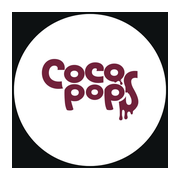
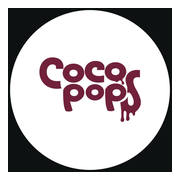
Corregir logotipo real y actualización móvil CICE 10.3

Changed region(s): [[0.0278, 0.0278, 0.9722, 0.9722], [0.1944, 0.3056, 0.8056, 0.6944]]

diff --git a/app/static/index.html b/app/static/index.html
@@ -140,37 +140,59 @@ svg.chart{width:100%;height:280px;min-width:720px}
 
 
 .brand-logo-img{
-  width:54px;height:54px;border-radius:16px;object-fit:cover;
-  border:2px solid rgba(255,255,255,.15);background:#fff
+  width:64px;
+  height:64px;
+  border-radius:18px;
+  object-fit:cover;
+  background:#fff;
+  border:2px solid rgba(255,255,255,.18);
+  box-shadow:0 8px 22px rgba(0,0,0,.22)
 }
 .mobile-refresh{
-  position:fixed;right:18px;bottom:18px;z-index:950;
-  width:56px;height:56px;border-radius:50%;
-  border:0;background:#861f41;color:#fff;
-  font-size:25px;font-weight:900;cursor:pointer;
-  box-shadow:0 12px 28px rgba(0,0,0,.24);
-  display:none
+  position:fixed;
+  right:18px;
+  bottom:18px;
+  z-index:999;
+  width:58px;
+  height:58px;
+  border-radius:50%;
+  border:0;
+  background:#861f41;
+  color:#fff;
+  font-size:27px;
+  font-weight:900;
+  cursor:pointer;
+  box-shadow:0 12px 30px rgba(0,0,0,.28)
 }
 .mobile-refresh:disabled{opacity:.65;cursor:wait}
-.mobile-refresh.spinning{animation:spin .8s linear infinite}
-@keyframes spin{to{transform:rotate(360deg)}}
-.mobile-tip{
-  display:none;background:#fff7ed;border:1px solid #fed7aa;color:#9a3412;
-  border-radius:14px;padding:12px 14px;margin-bottom:14px;font-size:13px
+.mobile-refresh.spinning{animation:ciceSpin .85s linear infinite}
+@keyframes ciceSpin{to{transform:rotate(360deg)}}
+.mobile-refresh-label{
+  position:fixed;
+  right:15px;
+  bottom:82px;
+  z-index:998;
+  background:#fff;
+  color:#861f41;
+  border:1px solid #ead1da;
+  border-radius:999px;
+  padding:6px 10px;
+  font-size:11px;
+  font-weight:900;
+  box-shadow:0 6px 18px rgba(0,0,0,.12);
+  display:none
 }
 @media(max-width:780px){
-  .mobile-refresh{display:block}
-  .mobile-tip{display:block}
-  .sidebar{max-height:none}
-  .top{align-items:flex-start}
-  h1{font-size:28px}
-  .main{padding-bottom:90px}
+  .brand-logo-img{width:58px;height:58px}
+  .mobile-refresh-label{display:block}
+  .main{padding-bottom:100px}
 }
 
 </style>
 
-<link rel="manifest" href="/static/manifest.webmanifest">
-<link rel="apple-touch-icon" href="/static/apple-touch-icon.png">
+<link rel="manifest" href="/static/manifest.webmanifest?v=10.3.0">
+<link rel="apple-touch-icon" href="/static/apple-touch-icon.png?v=10.3.0">
+<link rel="icon" type="image/png" sizes="192x192" href="/static/icon-192.png?v=10.3.0">
 <meta name="theme-color" content="#861f41">
 <meta name="apple-mobile-web-app-capable" content="yes">
 <meta name="apple-mobile-web-app-status-bar-style" content="default">
@@ -181,8 +203,11 @@ svg.chart{width:100%;height:280px;min-width:720px}
 <div class="shell">
   <aside class="sidebar">
     <div class="logo-wrap">
-      <img class="brand-logo-img" src="/static/cocopops-logo.jpg" alt="Coco Pops">
-      <div><div class="brand-title">CICE</div><div class="brand-sub">Solo consulta · Powered by Odoo</div></div>
+      <img class="brand-logo-img" src="/static/cocopops-logo.png?v=10.3.0" alt="Logotipo Coco Pops">
+      <div>
+        <div class="brand-title">CICE</div>
+        <div class="brand-sub">Solo consulta · Powered by Odoo</div>
+      </div>
     </div>
     <div class="nav-label">Centro de mando</div>
     <button class="nav-btn active" data-module="home">Resumen Ejecutivo</button>
@@ -217,9 +242,6 @@ svg.chart{width:100%;height:280px;min-width:720px}
     <div id="status" class="hidden"></div>
 
     <div id="dashboard" hidden>
-      <div class="mobile-tip">
-        Para traer los datos más recientes, toca el botón circular ↻ de la esquina inferior derecha.
-      </div>
       <section id="homeView">
         <div class="command-grid">
           <button class="command" data-open="inventory"><div class="icon">📦</div><div class="title">Inventarios</div><div class="desc">Existencias, mínimos y riesgos</div></button>
@@ -840,12 +862,17 @@ searchInput.addEventListener('input',renderProducts);statusFilter.addEventListen
 cardsBtn.onclick=()=>{productView='cards';productCards.classList.remove('hidden');tableContainer.classList.add('hidden');cardsBtn.classList.add('active');tableBtn.classList.remove('active');};
 tableBtn.onclick=()=>{productView='table';productCards.classList.add('hidden');tableContainer.classList.remove('hidden');tableBtn.classList.add('active');cardsBtn.classList.remove('active');};
 if ('serviceWorker' in navigator) {
-  window.addEventListener('load', () => {
-    navigator.serviceWorker.register('/static/service-worker.js').catch(() => {});
+  window.addEventListener('load', async () => {
+    try {
+      const registration = await navigator.serviceWorker.register('/static/service-worker.js?v=10.3.0');
+      registration.update();
+    } catch (_) {}
   });
 }
+mobileRefresh.onclick=loadData;
 loadData();setInterval(loadData,300000);
 </script>
-<button id="mobileRefresh" class="mobile-refresh" aria-label="Actualizar datos">↻</button>
+<div class="mobile-refresh-label">Actualizar datos</div>
+<button id="mobileRefresh" class="mobile-refresh" aria-label="Actualizar datos de Odoo" title="Actualizar datos">↻</button>
 </body>
 </html>

diff --git a/app/static/service-worker.js b/app/static/service-worker.js
@@ -1,17 +1,16 @@
 
-const CACHE_NAME = "cice-shell-v10-2";
-const SHELL = [
-  "/",
-  "/static/manifest.webmanifest",
-  "/static/icon-192.png",
-  "/static/icon-512.png",
-  "/static/apple-touch-icon.png",
-  "/static/cocopops-logo.jpg"
+const CACHE_NAME = "cice-v10-3-0";
+const STATIC_ASSETS = [
+  "/static/manifest.webmanifest?v=10.3.0",
+  "/static/icon-192.png?v=10.3.0",
+  "/static/icon-512.png?v=10.3.0",
+  "/static/apple-touch-icon.png?v=10.3.0",
+  "/static/cocopops-logo.png?v=10.3.0"
 ];
 
 self.addEventListener("install", event => {
   event.waitUntil(
-    caches.open(CACHE_NAME).then(cache => cache.addAll(SHELL))
+    caches.open(CACHE_NAME).then(cache => cache.addAll(STATIC_ASSETS))
   );
   self.skipWaiting();
 });
@@ -26,20 +25,37 @@ self.addEventListener("activate", event => {
 });
 
 self.addEventListener("fetch", event => {
-  const url = new URL(event.request.url);
+  const request = event.request;
+  const url = new URL(request.url);
 
-  // Las APIs siempre deben traer datos actuales.
+  if (request.method !== "GET") return;
+
+  // Never cache live Odoo-backed data.
   if (url.pathname.startsWith("/api/")) {
-    event.respondWith(fetch(event.request));
+    event.respondWith(fetch(request, {cache: "no-store"}));
     return;
   }
 
-  // La interfaz puede abrirse con rapidez usando caché.
+  // Always try the newest HTML first, so updates appear on phone and PC.
+  if (request.mode === "navigate" || url.pathname === "/") {
+    event.respondWith(
+      fetch(request, {cache: "no-store"})
+        .then(response => {
+          const copy = response.clone();
+          caches.open(CACHE_NAME).then(cache => cache.put("/", copy));
+          return response;
+        })
+        .catch(() => caches.match("/"))
+    );
+    return;
+  }
+
+  // Static files: cache first, then network.
   event.respondWith(
-    caches.match(event.request).then(cached =>
-      cached || fetch(event.request).then(response => {
+    caches.match(request).then(cached =>
+      cached || fetch(request).then(response => {
         const copy = response.clone();
-        caches.open(CACHE_NAME).then(cache => cache.put(event.request, copy));
+        caches.open(CACHE_NAME).then(cache => cache.put(request, copy));
         return response;
       })
     )

diff --git a/app/main.py b/app/main.py
@@ -40,7 +40,7 @@ odoo = OdooClient(settings)
 
 app = FastAPI(
     title="CICE Coco Pops",
-    version="10.2.0",
+    version="10.3.0",
 )
 
 app.mount(
@@ -65,7 +65,7 @@ async def home() -> FileResponse:
 async def health() -> dict[str, object]:
     return {
         "status": "ok",
-        "version": "10.2.0",
+        "version": "10.3.0",
         "architecture": "modular-data-warehouse",
         "database_enabled": database_enabled(),
         "warehouse_enabled": warehouse_enabled(),
